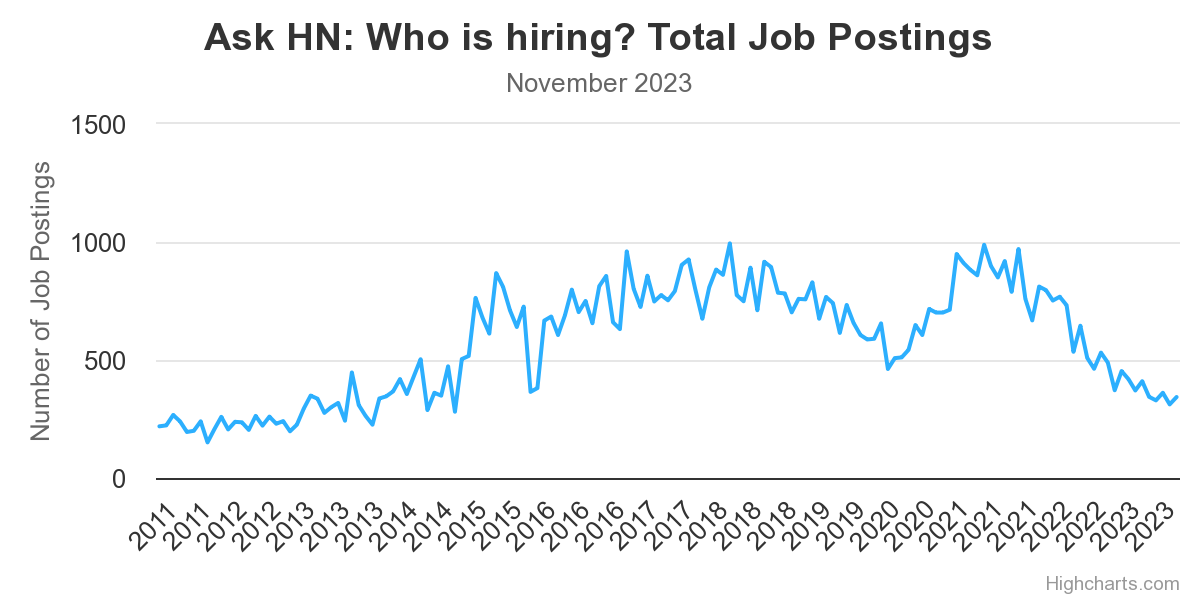
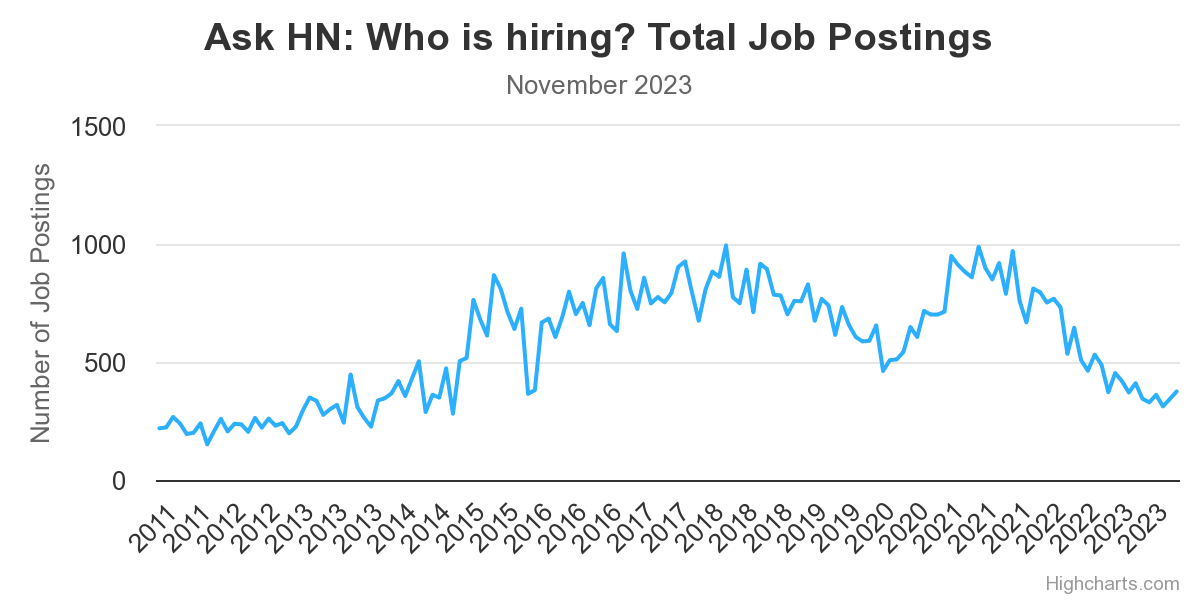
Fix data reference

diff --git a/web/index.html b/web/index.html
@@ -47,9 +47,10 @@
     <div class="col-md-9" role="main">
 
       <div class="post">
-        <h3><a href="2023/november.html">nov</a></h3>
-        <div class="post-date">Friday, November 25, 2023</div>
+        <h3><a href="2023/november.html">Three notable trends: Rising AI and Staff Roles, Falling Front-end</a></h3>
+        <div class="post-date">Saturday, November 25, 2023</div>
         <p>
+
         </p>
         <p>
           <a href="2023/november.html"><img src="/images/202311-ask-hn-who-is-hiring-tot.svg" alt="Total Job Postings on whoishiring for November, 2023" class="img-fluid" /></a>

diff --git a/web/2023/november.html b/web/2023/november.html
@@ -708,7 +708,7 @@
 <script src="https://cdn.jsdelivr.net/npm/bootstrap@5.3.2/dist/js/bootstrap.bundle.min.js" integrity="sha384-C6RzsynM9kWDrMNeT87bh95OGNyZPhcTNXj1NW7RuBCsyN/o0jlpcV8Qyq46cDfL" crossorigin="anonymous"></script>
 <script src="https://code.highcharts.com/highcharts.js"></script>
 <script src="https://code.highcharts.com/modules/exporting.js"></script>
-<script src="../data/data-20231001.js"></script>
+<script src="../data/data-20231101.js"></script>
 <script>
   window.chartTitle = 'November 2023 Hacker News Hiring Trends';
   window.chartMonth = 'November 2023';
